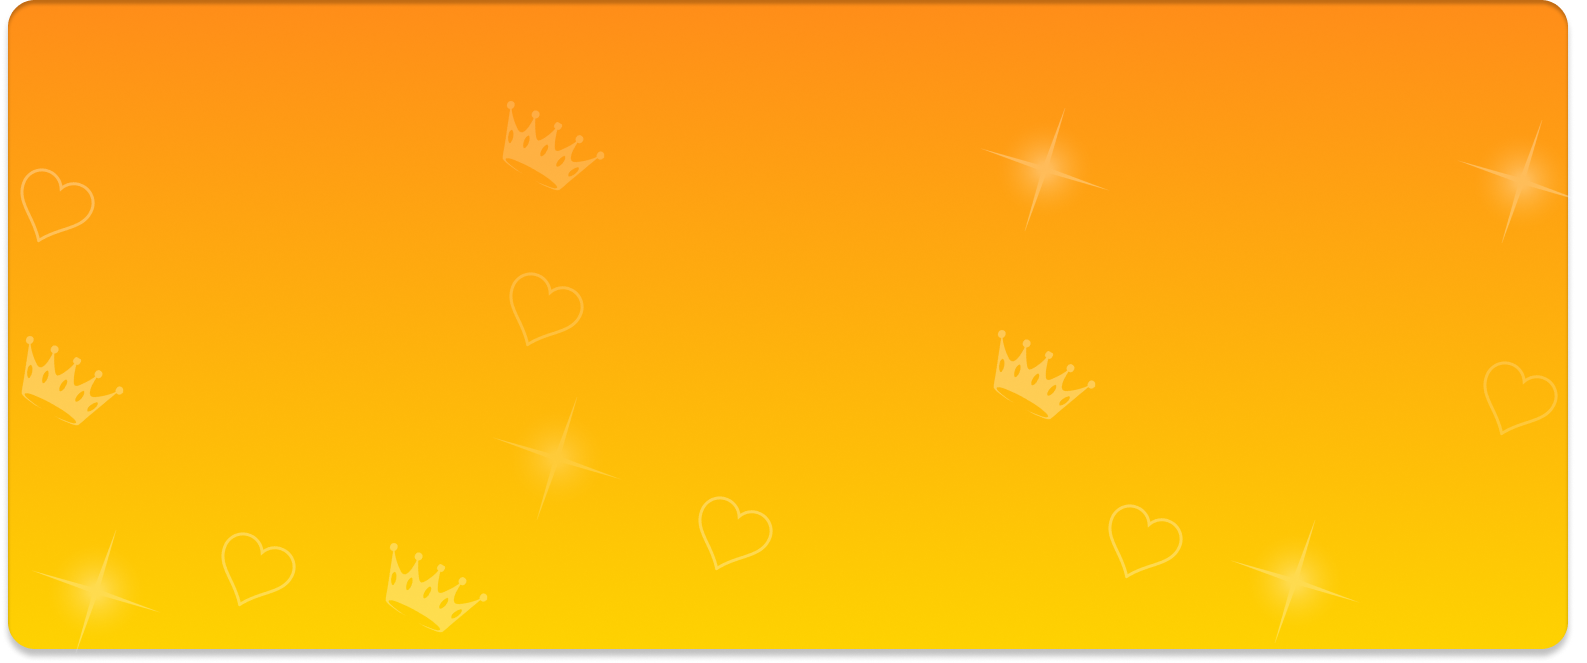
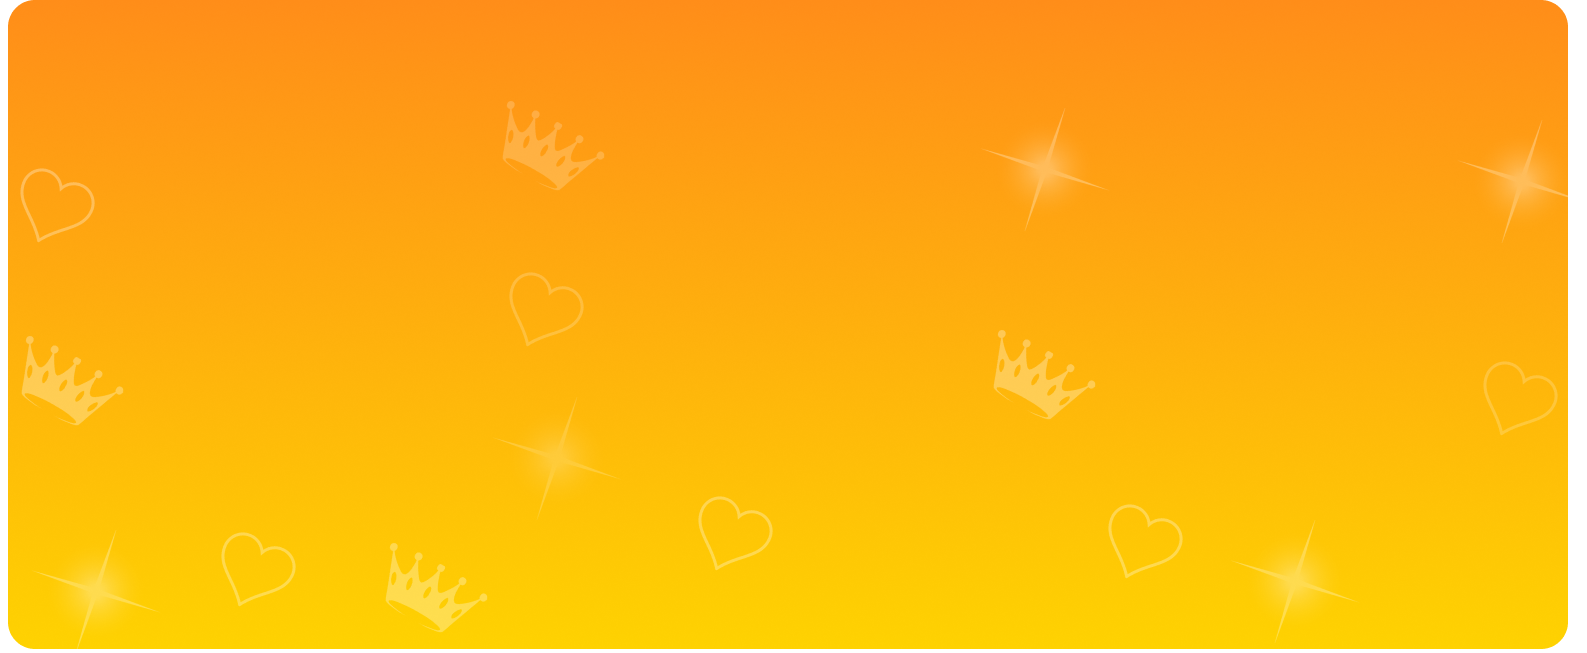
адаптив главная

diff --git a/css/main.css b/css/main.css
@@ -646,8 +646,11 @@ header nav ul a:last-child li h3 {
   justify-content: space-around;
   background-image: url("/img/reviews-back.png");
   width: 100%;
-  height: 649px;
   margin-top: 150px;
+  padding-bottom: 70px;
+  border-radius: 27px;
+  background-size: cover;
+  background-repeat: no-repeat;
 }
 
 .section-div div {
@@ -725,6 +728,8 @@ header nav ul a:last-child li h3 {
   justify-content: space-between;
   position: relative;
   background-image: url("/img/backgr.png");
+  background-size: cover;
+  background-repeat: no-repeat;
   width: 100vw;
   height: 2055px;
   padding-top: 80px;
@@ -748,9 +753,9 @@ header nav ul a:last-child li h3 {
   justify-content: space-between;
 }
 
-.top-div-tarif div:first-child,
-.top-div-tarif div:nth-child(2),
-.top-div-tarif div:last-child {
+.top-div-tarif>div:first-child,
+.top-div-tarif>div:nth-child(2),
+.top-div-tarif>div:last-child {
   display: flex;
   flex-direction: column;
   align-items: center;
@@ -759,14 +764,15 @@ header nav ul a:last-child li h3 {
   border: 0.4px solid #c7c7c7;
   box-shadow: 0px 7px 7px rgba(0, 0, 0, 0.25);
   border-radius: 35px;
+  padding: 10px 0;
 }
 
 .top-div-tarif div:first-child {
-  height: 567px;
+  max-height: 460px;
 }
 
 .top-div-tarif div:nth-child(2) {
-  height: 740px;
+  max-height: 630px;
 }
 
 .top-div-tarif div h1 {
@@ -1239,6 +1245,39 @@ footer hr {
     max-width: 680px;
     margin-bottom: 50px;
   }
+
+  .section-div div {
+    width: 300px;
+    height: auto;
+    padding: 30px 0;
+    top: -80px;
+  }
+
+  .section-div div p:first-child {
+    width: 90%;
+    margin-bottom: 30px;
+  }
+
+  .top-div-tarif div h1,
+  .top-div-tarif div p {
+    width: 80%;
+  }
+
+  .top-div-tarif div div:nth-child(3) {
+    padding-left: 20px;
+  }
+
+  .top-div-tarif div:first-child {
+    max-height: 580px;
+  }
+
+  .top-div-tarif div:nth-child(2) {
+    max-height: 800px;
+  }
+
+  .bottom-div-tarif img {
+    display: none;
+  }
 }
 
 @media screen and (max-width: 1050px) {
@@ -1332,6 +1371,40 @@ footer hr {
 
   .inside-div>div {
     flex-wrap: wrap;
+  }
+
+  .section-div {
+    flex-direction: column;
+    justify-content: center;
+    align-items: center;
+    background-image: none;
+    margin-top: 150px;
+    padding-bottom: 30px;
+  }
+
+  .section-div div {
+    width: 70%;
+    margin-bottom: 50px;
+  }
+
+  .tarif {
+    height: auto;
+  }
+
+  .top-div-tarif {
+    flex-direction: column;
+    align-items: center;
+    justify-content: center;
+  }
+
+  .top-div-tarif>div {
+    width: 70% !important;
+    margin-bottom: 40px;
+  }
+
+  .top-div-tarif div h1,
+  .top-div-tarif div p {
+    width: 75%;
   }
 
   .first-footer-div:nth-child(2) div p {
@@ -1461,6 +1534,23 @@ footer hr {
     margin-bottom: 0px;
   }
 
+  .section-div div {
+    width: 100%;
+    margin-bottom: 40px;
+  }
+
+  .top-div-tarif>div {
+    width: 100% !important;
+  }
+
+  .top-div-tarif div h1 {
+    width: 60%;
+  }
+
+  .top-div-tarif div p {
+    width: 90%;
+  }
+
   .footer-bot div:first-child {
     display: none;
   }
@@ -1547,6 +1637,7 @@ footer hr {
   .grid-show {
     grid-template-rows: repeat(6, 1fr);
     grid-template-columns: repeat(1, 1fr);
+    text-align: center;
   }
 
   .grid-show div {
@@ -1570,6 +1661,28 @@ footer hr {
   .inside-div>div div p,
   .inside-div p {
     font-size: 14px;
+  }
+
+  .bottom-div-tarif>div:first-child {
+    width: 100%;
+    margin-top: 50px;
+  }
+
+  .bottom-div-tarif>div:first-child p {
+    width: 90%;
+  }
+
+  .bottom-div-tarif form input[type="text"] {
+    width: 90%;
+  }
+
+  .check div {
+    width: 50%;
+  }
+
+  .bottom-div-tarif button {
+    width: 40%;
+    margin-left: 0;
   }
 }
 
@@ -1620,9 +1733,35 @@ footer hr {
     font-size: 22px;
   }
 
+  .inside-div>div {
+    justify-content: center;
+  }
+
+  .inside-div-1 button {
+    width: 100%;
+  }
+
   .grid-show div {
     width: 300px;
     height: 370px;
+  }
+
+  .top-div-tarif div:first-child {
+    max-height: 620px;
+  }
+
+  .top-div-tarif div h1 {
+    width: 80%;
+  }
+
+  .top-div-tarif div:nth-child(2) {
+    max-height: 850px;
+  }
+
+  .bottom-div-tarif h1 {
+    width: 90%;
+    font-size: 40px;
+    line-height: 39px;
   }
 
   footer p {

diff --git a/index.php b/index.php
@@ -293,7 +293,6 @@
           <p>Базовое оформление шарами</p>
           <p>Фотозона до 5 элементов декора</p>
         </div>
-        <button>Заказать</button>
       </div>
       <div>
         <h1>Золотая середина от 150 000 ₽</h1>
@@ -311,7 +310,6 @@
           <p>Шоу-программа из авторского каталога</p>
           <p>Персональный инвент-менеджер на площадке</p>
         </div>
-        <button>Заказать</button>
       </div>
       <div>
         <h1>Возможно всё от 350 000 ₽</h1>
@@ -338,7 +336,6 @@
             праздника
           </p>
         </div>
-        <button>Заказать</button>
       </div>
     </div>
     <div class="bottom-div-tarif container">
@@ -360,7 +357,7 @@
           <div class="check" required>
             <div>
               <input type="checkbox" />
-              <p>Соглашаюсь со всеми условиями реального и сказочного мира</p>
+              <p>Соглашаюсь со всеми условиями</p>
             </div>
             <button type="submit">Отправить</button>
           </div>
